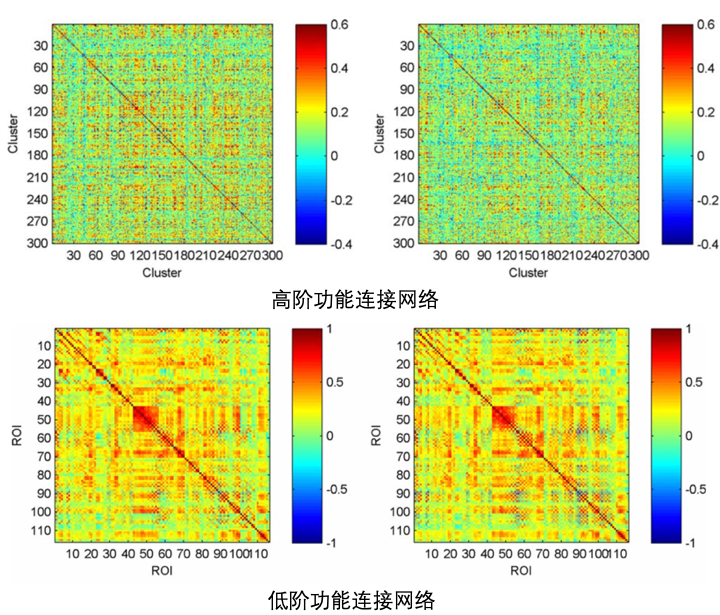
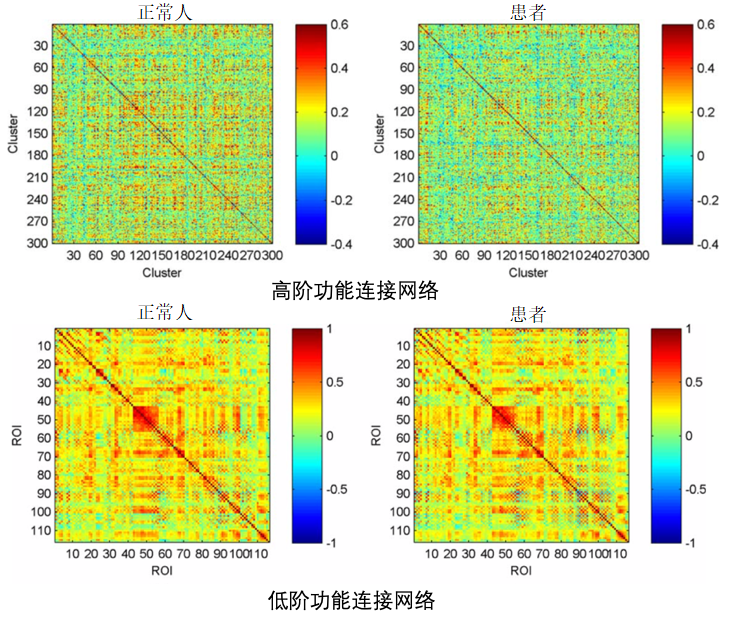
brain

diff --git a/resrc/mia.html b/resrc/mia.html
@@ -193,12 +193,12 @@
                           title="Permalink to this headline">¶</a></h3>
                       <p>
                         由静息态功能核磁共振成像技术估测得到的脑功能连接网络已经成为神经退化疾病诊断中的重要方法。然而，传统的功能连接网络仅仅考虑了大脑区域之间的相关性，对时间具有较高的敏感性。针对这个问题，我们提出一种高阶功能连接相关性提取方法，可以建模不同脑区对之间低阶相关性的相互作用，通过各脑区之间关联在时间上的相关性来对脑功能连接网络进行鲁棒表示。图1
-                        给出了正常人和轻度认知障碍或者在低阶功能连接网络和高阶功能连接网络上的对比。从图中可以看出，高阶功能连接网络能够更好的对不同类型人群进行划分。
+                        给出了正常人和轻度认知障碍患者在低阶功能连接网络和高阶功能连接网络上的对比。从图中可以看出，高阶功能连接网络能够更好的对不同类型人群进行划分。
                       </p>
                       <div align=center>
 
                         <img src="High-Order-Connection-Network.png" style="width:60%;height:50% ;margin: 6px;">
-                        <p>图1 正常人和轻度认知障碍或者在低阶功能连接网络和高阶功能连接网络上的对比</p>
+                        <p>图1 正常人和轻度认知障碍患者在低阶功能连接网络和高阶功能连接网络上的对比</p>
                       </div>
                     </div>
 
@@ -231,7 +231,7 @@
                       <h3>2.1.图像情绪感知<a class="headerlink" href="#picture-emotion-perception"
                           title="Permalink to this headline">¶</a></h3>
                       <p>
-                        由静息态功能核磁共振成像技术估测得到的脑功能连接网络已经成为神经退化疾病诊断中的重要方法。然而，传统的功能连接网络仅仅考虑了大脑区域之间的相关性，对时间具有较高的敏感性。针对这个问题，我们提出一种高阶功能连接相关性提取方法，可以建模不同脑区对之间低阶相关性的相互作用，通过各脑区之间关联在时间上的相关性来对脑功能连接网络进行鲁棒表示。图4给出了正常人和轻度认知障碍或者在低阶功能连接网络和高阶功能连接网络上的对比。从图中可以看出，高阶功能连接网络能够更好的对不同类型人群进行划分。
+                        由静息态功能核磁共振成像技术估测得到的脑功能连接网络已经成为神经退化疾病诊断中的重要方法。然而，传统的功能连接网络仅仅考虑了大脑区域之间的相关性，对时间具有较高的敏感性。针对这个问题，我们提出一种高阶功能连接相关性提取方法，可以建模不同脑区对之间低阶相关性的相互作用，通过各脑区之间关联在时间上的相关性来对脑功能连接网络进行鲁棒表示。图4给出了正常人和轻度认知障碍患者在低阶功能连接网络和高阶功能连接网络上的对比。从图中可以看出，高阶功能连接网络能够更好的对不同类型人群进行划分。
                       </p>
                       <p>
                         旨在消除情绪鸿沟的具有识别度的图像特征已经有了显著的进步，而观众所感知的情绪受到个人和情景因素共同影响，往往是主观个性化的。针对这一问题，我们提出将图像的分类转为离散的概率分布来更好的表征图像所隐含的情感信息，通过优化权重来显式的表达不同特征的重要性。
@@ -279,12 +279,20 @@
                         <!-- <tr  ><td><p style="line-height:20px;margin-bottom:0rem">Junjie Zhu, Yuanbiao Wang, Yifan Feng, Sicheng Zhao, Xibin Zhao, Yue Gao<br><b><strong>Individual-Specific Emotion Recognition from Multimodal Physiological Signals</strong></b><br>ACM MM 2019 投稿中<br>[<a href="#paperlist">paper</a>]</p></td></tr> -->
                         <tr>
                           <td>
+                            <p style="line-height:20px;margin-bottom:0rem">Junjie Zhu, Yuxuan Wei, Yifan Feng, Xibin
+                              Zhao, Yue Gao<br><b><strong>Emotion Recognition with Multi-hypergraph Neural Networks
+                                  Combining Multimodal Physiological Signals</strong></b><br>ACM Transactions on
+                              Multimedia Computing, Communications, and Applications (TOMM) 2019<br>[<a
+                                href="#paperlist">paper</a>]</p>
+                          </td>
+                        </tr>
+                        <tr>
+                          <td>
                             <p style="line-height:20px;margin-bottom:0rem">Junjie Zhu , Xibin Zhao , Han Hu , Yue
                               Gao<br><b><strong>Emotion Recognition from Physiological Signals Using Multi-Hypergraph
                                   Neural Network</strong></b><br>ICME 2019<br>[<a href="#paperlist">paper</a>]</p>
                           </td>
                         </tr>
-                        <!-- <tr  ><td><p style="line-height:20px;margin-bottom:0rem">Junjie Zhu, Yuxuan Wei, Yifan Feng, Xibin Zhao, Yue Gao<br><b><strong>Emotion Recognition with Multi-hypergraph Neural Networks Combining Multimodal Physiological Signals</strong></b><br>ACM Transactions on Multimedia Computing, Communications, and Applications 投稿中<br>[<a href="#paperlist">paper</a>]</p></td></tr> -->
                         <tr>
                           <td>
                             <p style="line-height:20px;margin-bottom:0rem">Sicheng Zhao, Guiguang Ding, Yue Gao, Xin
@@ -487,15 +495,15 @@
       <div class="row">
         <div class="col-sm-3">
           <h4>iMoon: Intelligent Media and Cognition Group</h4>
-            School of Software
-            <br> Tsinghua, Beijing 100084
-            <br>
-            <a href="http://www.tsinghua.edu.cn/publish/newthu/newthu_cnt/intothu/intothu-3-3.html">Directions</a>
+          School of Software
+          <br> Tsinghua, Beijing 100084
+          <br>
+          <a href="http://www.tsinghua.edu.cn/publish/newthu/newthu_cnt/intothu/intothu-3-3.html">Directions</a>
         </div>
         <div class="col-sm-3">
           <div class="indent30">
             <h4>Copyright</h4>
-              All Rights Reserved.
+            All Rights Reserved.
           </div>
         </div>
       </div>
